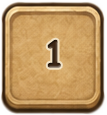
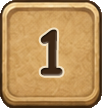
кнопка уровня

diff --git a/MainMenuForm.Designer.cs b/MainMenuForm.Designer.cs
@@ -47,9 +47,9 @@ namespace Bone_By_Bone
             this.button1.BackColor = System.Drawing.Color.Transparent;
             this.button1.Cursor = System.Windows.Forms.Cursors.Hand;
             this.button1.Image = global::Bone_By_Bone.Properties.Resources.buttonnormal1;
-            this.button1.Location = new System.Drawing.Point(746, 494);
+            this.button1.Location = new System.Drawing.Point(762, 481);
             this.button1.Name = "button1";
-            this.button1.Size = new System.Drawing.Size(435, 137);
+            this.button1.Size = new System.Drawing.Size(408, 142);
             this.button1.SizeMode = System.Windows.Forms.PictureBoxSizeMode.StretchImage;
             this.button1.TabIndex = 11;
             this.button1.TabStop = false;
@@ -75,9 +75,9 @@ namespace Bone_By_Bone
             this.button2.BackColor = System.Drawing.Color.Transparent;
             this.button2.Cursor = System.Windows.Forms.Cursors.Hand;
             this.button2.Image = global::Bone_By_Bone.Properties.Resources.buttonnormal2;
-            this.button2.Location = new System.Drawing.Point(784, 661);
+            this.button2.Location = new System.Drawing.Point(800, 644);
             this.button2.Name = "button2";
-            this.button2.Size = new System.Drawing.Size(362, 115);
+            this.button2.Size = new System.Drawing.Size(335, 115);
             this.button2.SizeMode = System.Windows.Forms.PictureBoxSizeMode.StretchImage;
             this.button2.TabIndex = 13;
             this.button2.TabStop = false;
@@ -91,9 +91,9 @@ namespace Bone_By_Bone
             this.button3.BackColor = System.Drawing.Color.Transparent;
             this.button3.Cursor = System.Windows.Forms.Cursors.Hand;
             this.button3.Image = global::Bone_By_Bone.Properties.Resources.buttonnormal3;
-            this.button3.Location = new System.Drawing.Point(826, 811);
+            this.button3.Location = new System.Drawing.Point(841, 780);
             this.button3.Name = "button3";
-            this.button3.Size = new System.Drawing.Size(278, 93);
+            this.button3.Size = new System.Drawing.Size(251, 90);
             this.button3.SizeMode = System.Windows.Forms.PictureBoxSizeMode.StretchImage;
             this.button3.TabIndex = 14;
             this.button3.TabStop = false;